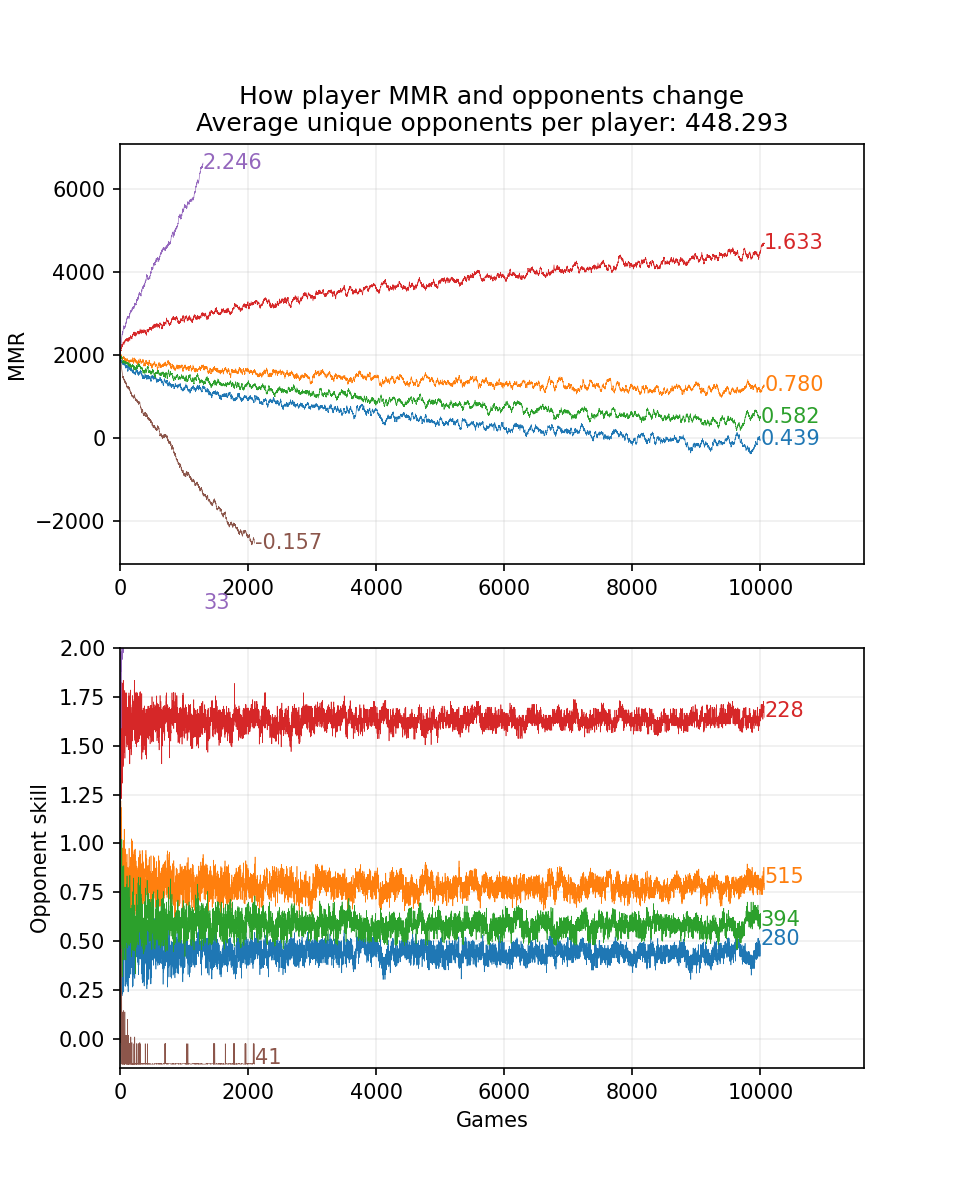
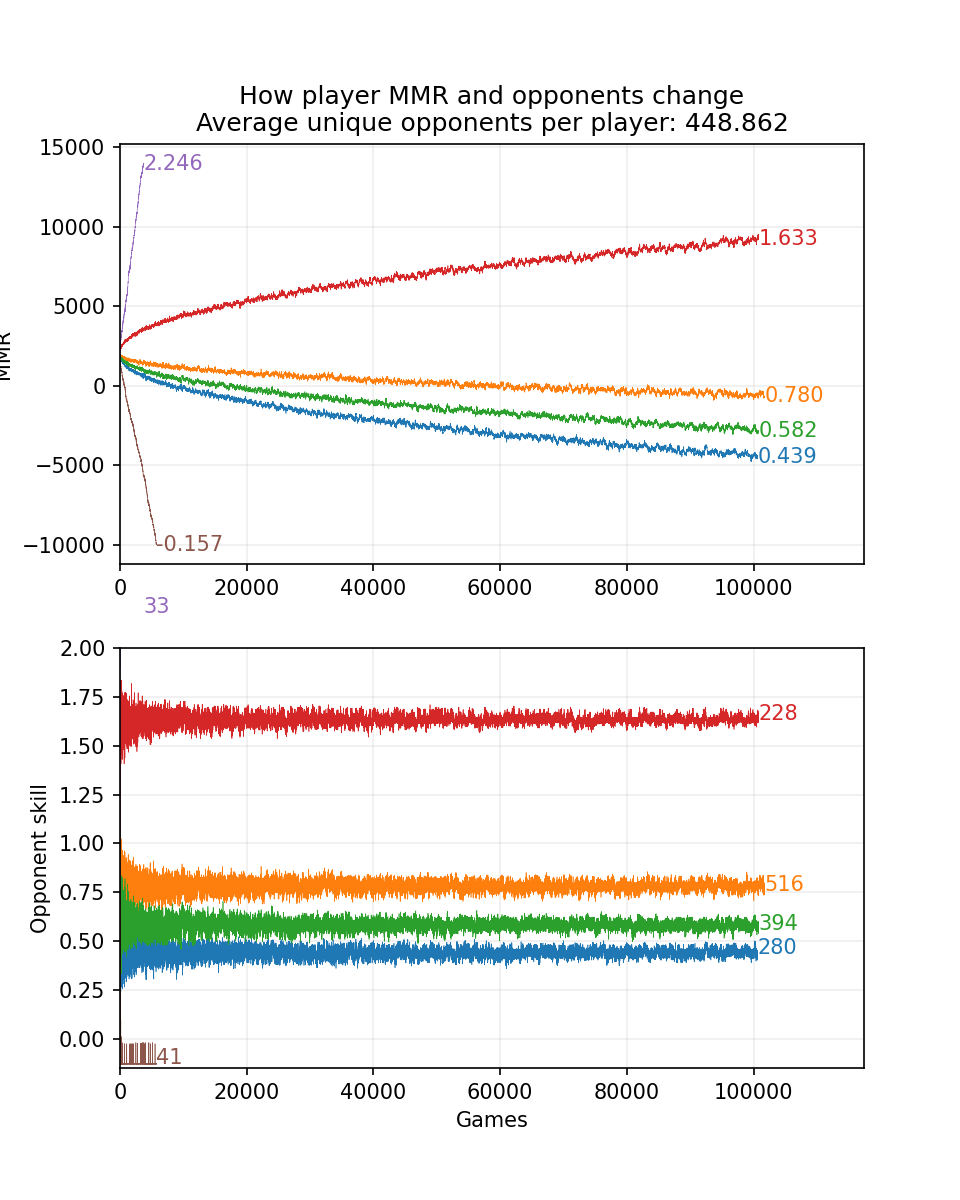
...

diff --git a/main.cpp b/main.cpp
@@ -261,10 +261,12 @@ void save_player_data(const std::vector<Player> &players)
 
 std::vector<Player> run_sim(int players, int iterations)
 {
+    Timeit t;
     ELO_strategy strategy;
     Simulation simulation(strategy);
     simulation.add_players(players);
     simulation.play_games(iterations);
+    print("Pure simulation finished in", t.ms() / 1000, "seconds");
     // double inaccuracy = simulation.get_inaccuracy();
     // print("Inaccuracy:", inaccuracy);
     // system("python analyse.py");

diff --git a/sim.cpp b/sim.cpp
@@ -39,7 +39,7 @@ PyMODINIT_FUNC PyInit_psimulation(void)
 
 // Helper function
 // Creares a dictionary of all player data
-static PyObject *get_player_data(const Player &p)
+PyObject *get_player_data(const Player &p)
 {
     PyObject *opponent_history = PyList_New(0);
     PyObject *mmr_history = PyList_New(0);

diff --git a/analyse.py b/analyse.py
@@ -8,7 +8,7 @@ import psimulation
 
 ### RUN SIMULATION
 start = time.time()
-data = psimulation.run_simulation(2000, 10000000)
+data = psimulation.run_simulation(2000, 100000000)
 print(f"Simulation finished in {time.time()-start:.3f} seconds")
 start = time.time()
 
